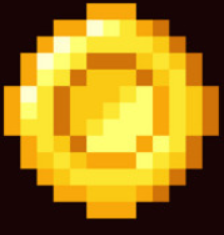
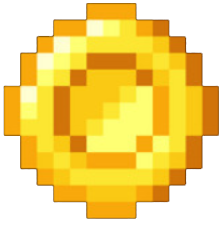
New coin

diff --git a/PRR02_shootemup/PRR02_shootemup/Libraries/TextureLibrary.cs b/PRR02_shootemup/PRR02_shootemup/Libraries/TextureLibrary.cs
@@ -30,6 +30,7 @@ namespace ShootEmUp.Libraries
                 ["HealthPowerUp"] = someContent.Load<Texture2D>("powerup_health"),
                 ["SpeedPowerUp"] = someContent.Load<Texture2D>("powerup_speed"),
                 ["Coin"] = someContent.Load<Texture2D>("coin"),
+                ["UltraCoin"] = someContent.Load<Texture2D>("ultraCoin"),
                 ["Orb"] = someContent.Load<Texture2D>("orb"),
                 ["SpaceBackground"] = someContent.Load<Texture2D>("space"),
                 ["Missile"] = someContent.Load<Texture2D>("missile"),

diff --git a/PRR02_shootemup/PRR02_shootemup/Objects/Missile.cs b/PRR02_shootemup/PRR02_shootemup/Objects/Missile.cs
@@ -49,9 +49,9 @@ namespace ShootEmUp.Objects
                         continue;
                     }
 
-                    if (tempCurrentObject is Creature)
+                    if (tempCurrentObject is BaseEnemy)
                     {
-                        (tempCurrentObject as Creature).TakeDamage(25);
+                        (tempCurrentObject as BaseEnemy).TakeDamage(25);
                     }
 
                     if (tempCurrentObject is PowerUp)

diff --git a/PRR02_shootemup/PRR02_shootemup/Objects/Creatures/Enemies/EnemyBoss1.cs b/PRR02_shootemup/PRR02_shootemup/Objects/Creatures/Enemies/EnemyBoss1.cs
@@ -11,7 +11,7 @@ namespace ShootEmUp.Objects.Creatures.Enemies
     class EnemyBoss1 : BaseEnemy
     {
         public EnemyBoss1() :
-            base(TextureLibrary.GetTexture("EnemyShip"), new Rectangle(100, 100, 64, 48), 100)
+            base(TextureLibrary.GetTexture("EnemyShip"), new Rectangle(100, 100, 128, 96), 125)
         {
             AccessSpeed = 200;
         }

diff --git a/PRR02_shootemup/PRR02_shootemup/Objects/PowerUps/HealthPowerUp.cs b/PRR02_shootemup/PRR02_shootemup/Objects/PowerUps/HealthPowerUp.cs
@@ -20,8 +20,11 @@ namespace ShootEmUp.Objects.PowerUps
 
         protected override void OnPickup(Player aShip)
         {
-            aShip.GiveHealth(10);
-            Game1.myObjects.Remove(this);
+            if (myHealth <= myMaxHealth)
+            {
+                aShip.GiveHealth(10);
+                Game1.myObjects.Remove(this);
+            }
         }
     }
 }

diff --git a/PRR02_shootemup/PRR02_shootemup/Objects/Creatures/Player/Player.cs b/PRR02_shootemup/PRR02_shootemup/Objects/Creatures/Player/Player.cs
@@ -21,7 +21,7 @@ namespace ShootEmUp.Objects.Creatures.Player
         KeyboardState myPreviousKeyboardState;
 
         public Player() :
-            base(TextureLibrary.GetTexture("Ship"), new Rectangle(750, 750, 100, 100), 100)
+            base(TextureLibrary.GetTexture("Ship"), new Rectangle(750, 750, 100, 100), 1000)
         {
             mySpeed = 350;
         }

diff --git a/PRR02_shootemup/PRR02_shootemup/Collectibles/UltraCoin.cs b/PRR02_shootemup/PRR02_shootemup/Collectibles/UltraCoin.cs
@@ -13,7 +13,7 @@ namespace ShootEmUp.Collectibles
     class UltraCoin : Collectible
     {
         public UltraCoin() :
-            base(TextureLibrary.GetTexture("Coin"), new Rectangle(750, 300, 40, 40))
+            base(TextureLibrary.GetTexture("UltraCoin"), new Rectangle(750, 300, 40, 40))
         {
 
         }
